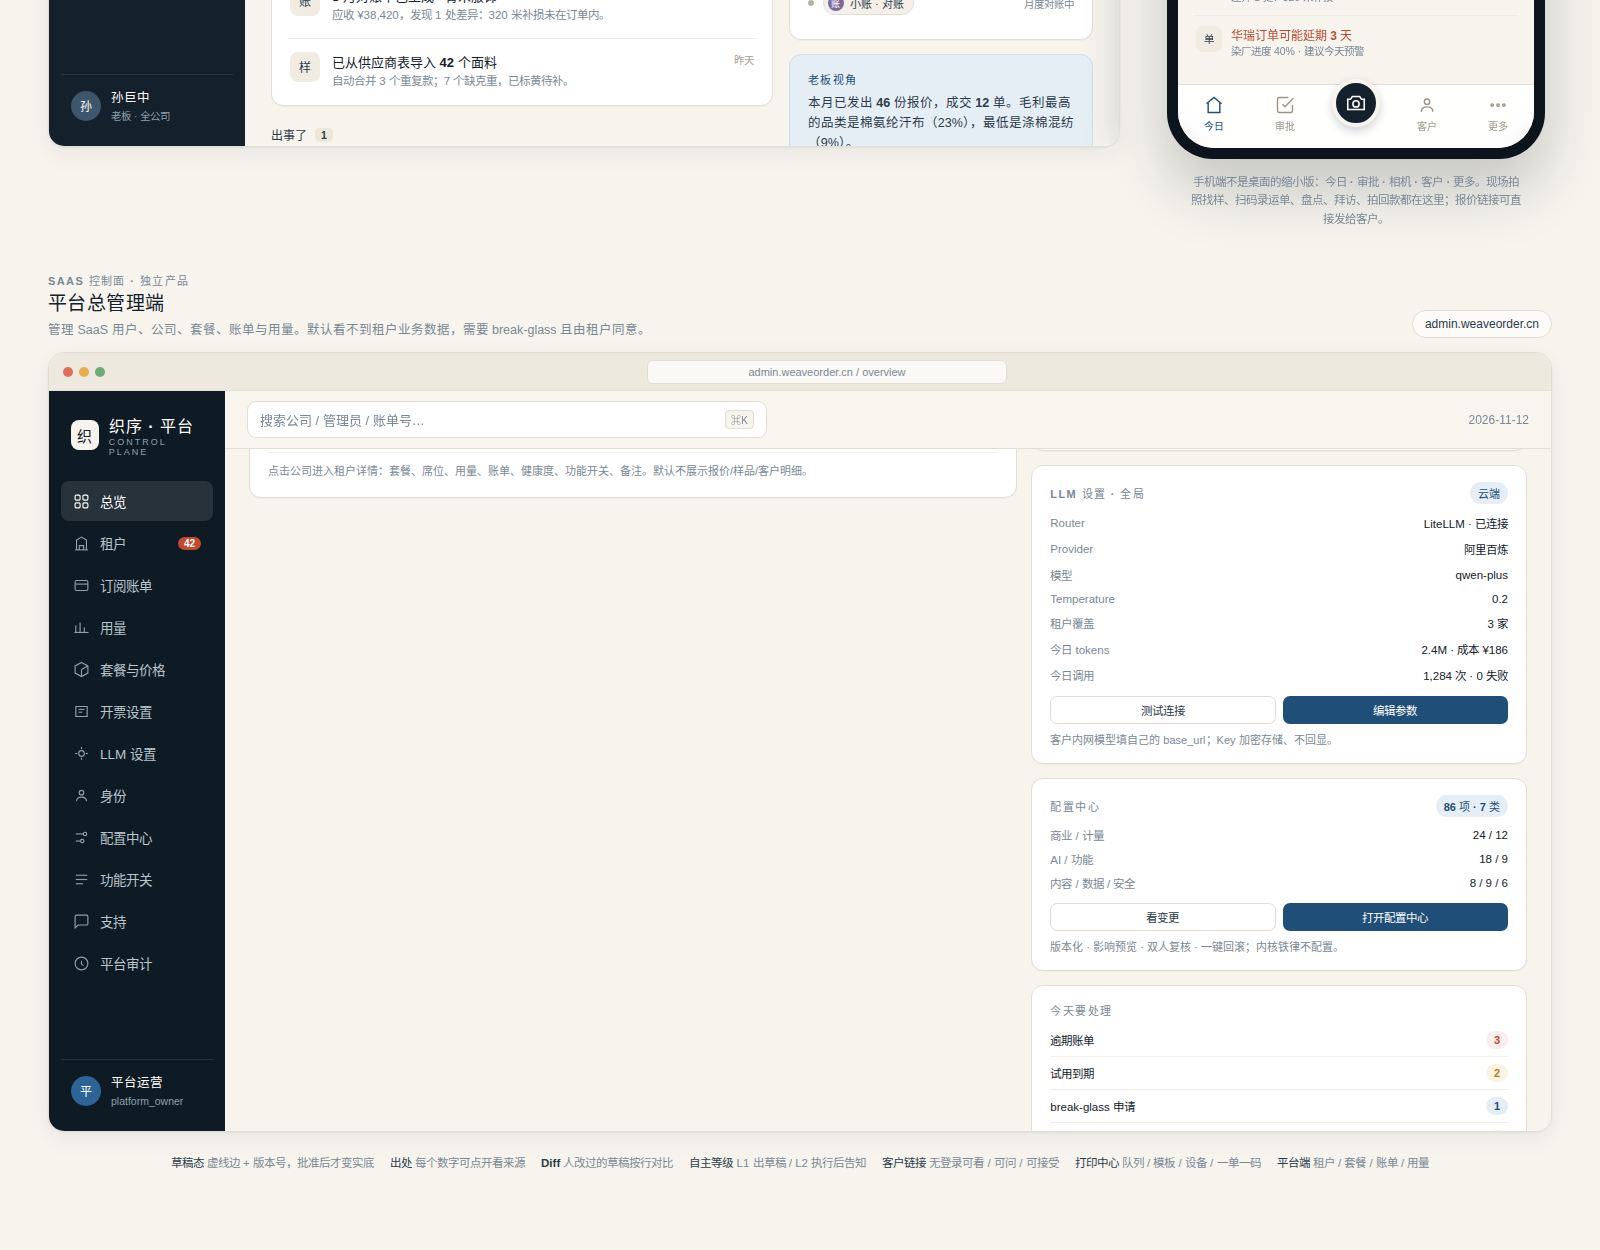
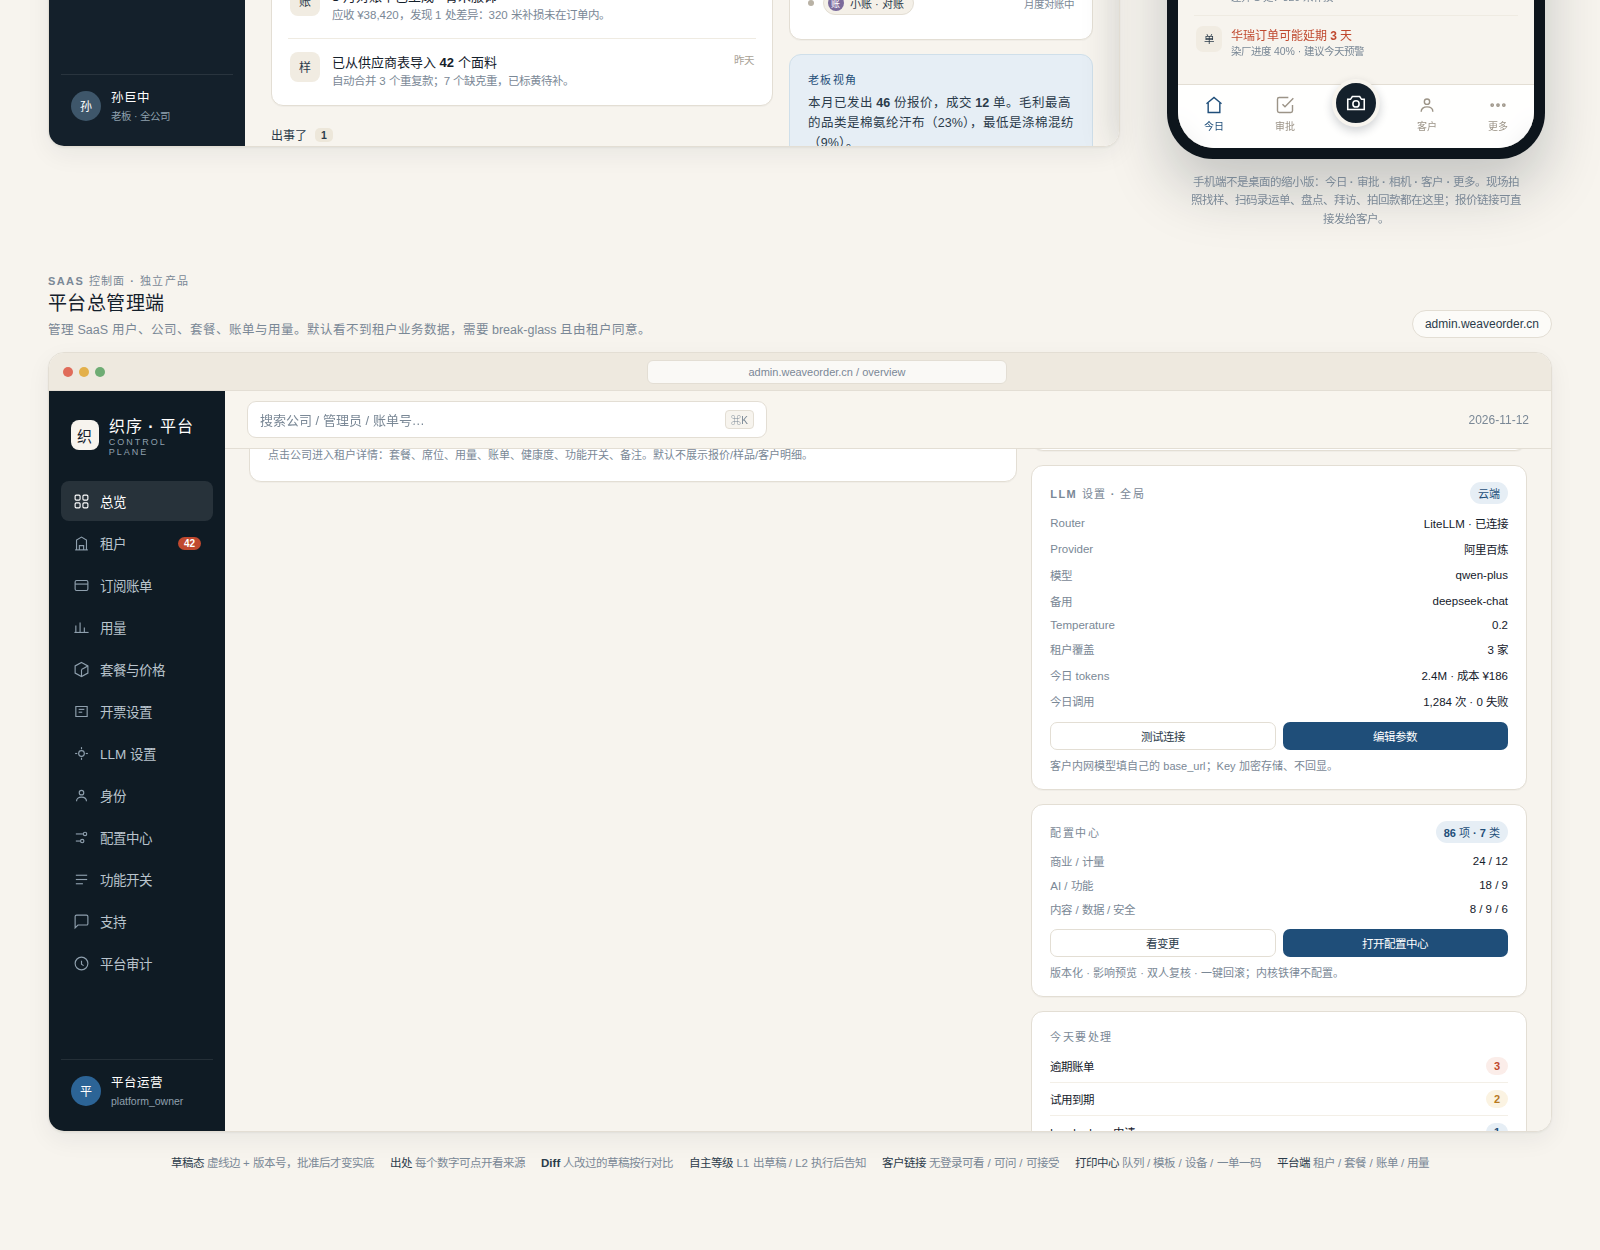
docs(design): v1.8 定稿隔离升级价与默认模型 (WAN-75)
- 隔离升级默认价：schema +¥1,500/月（年付1.5万）、独立库 +¥5,000/月（年付5万），实施费另计，后台可改
- Router 默认：百炼 qwen-plus/qwen-max + DeepSeek 备用；租户白名单默认 qwen-plus + deepseek-chat
- 关闭最后两项待定，价格与模型均可在总后台配置

Changed region(s): [[0.6562, 0.468, 0.9688, 0.9048], [0.1562, 0.3432, 0.5, 0.4056], [0.9062, 0.8736, 0.9375, 0.9048]]

diff --git a/prototype/product-design.html b/prototype/product-design.html
@@ -450,7 +450,7 @@
     </div>
     <div class="page-meta">
       <span class="pill"><span class="dot"></span>可点击：左侧导航 / 审批 / 手机 Tab</span>
-      <span class="pill">v1.7 · 2026-11-12</span>
+      <span class="pill">v1.8 · 2026-11-12</span>
     </div>
   </div>
 
@@ -1520,6 +1520,7 @@
                   <div class="plan-mini"><span>Enterprise</span><span class="num">3 家</span></div>
                   <div class="bar" style="margin:5px 0 0"><i style="width:7%"></i></div>
                   <div class="tiny muted" style="margin-top:9px;line-height:1.5">租户合同价 3 家（青禾锁价 ¥449）· 改价需 owner + 财务复核</div>
+                  <div class="tiny muted" style="line-height:1.5">隔离升级：schema +¥1,500/月 · 独立库 +¥5,000/月</div>
                 </div>
 
                 <div class="card pad" style="margin-top:14px">
@@ -1542,6 +1543,7 @@
                   <div class="between" style="font-size:11.5px;padding:5px 0"><span class="muted">Router</span><span>LiteLLM · 已连接</span></div>
                   <div class="between" style="font-size:11.5px;padding:5px 0"><span class="muted">Provider</span><span>阿里百炼</span></div>
                   <div class="between" style="font-size:11.5px;padding:5px 0"><span class="muted">模型</span><span>qwen-plus</span></div>
+                  <div class="between" style="font-size:11.5px;padding:5px 0"><span class="muted">备用</span><span>deepseek-chat</span></div>
                   <div class="between" style="font-size:11.5px;padding:5px 0"><span class="muted">Temperature</span><span class="num">0.2</span></div>
                   <div class="between" style="font-size:11.5px;padding:5px 0"><span class="muted">租户覆盖</span><span class="num">3 家</span></div>
                   <div class="between" style="font-size:11.5px;padding:5px 0"><span class="muted">今日 tokens</span><span class="num">2.4M · 成本 ¥186</span></div>
